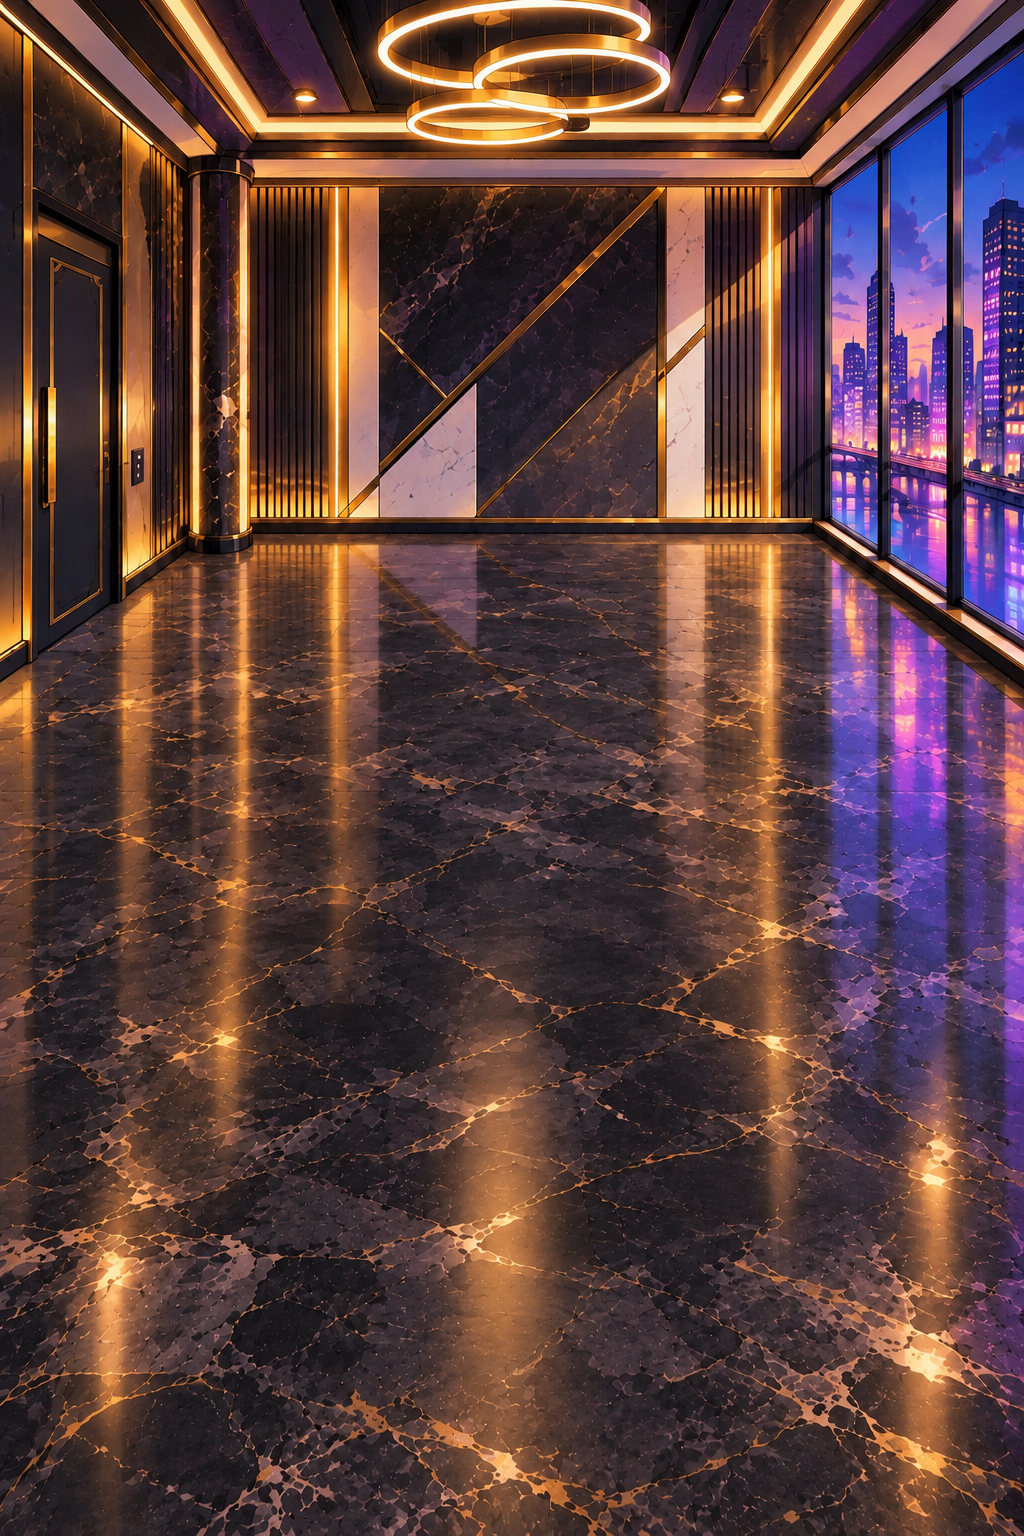
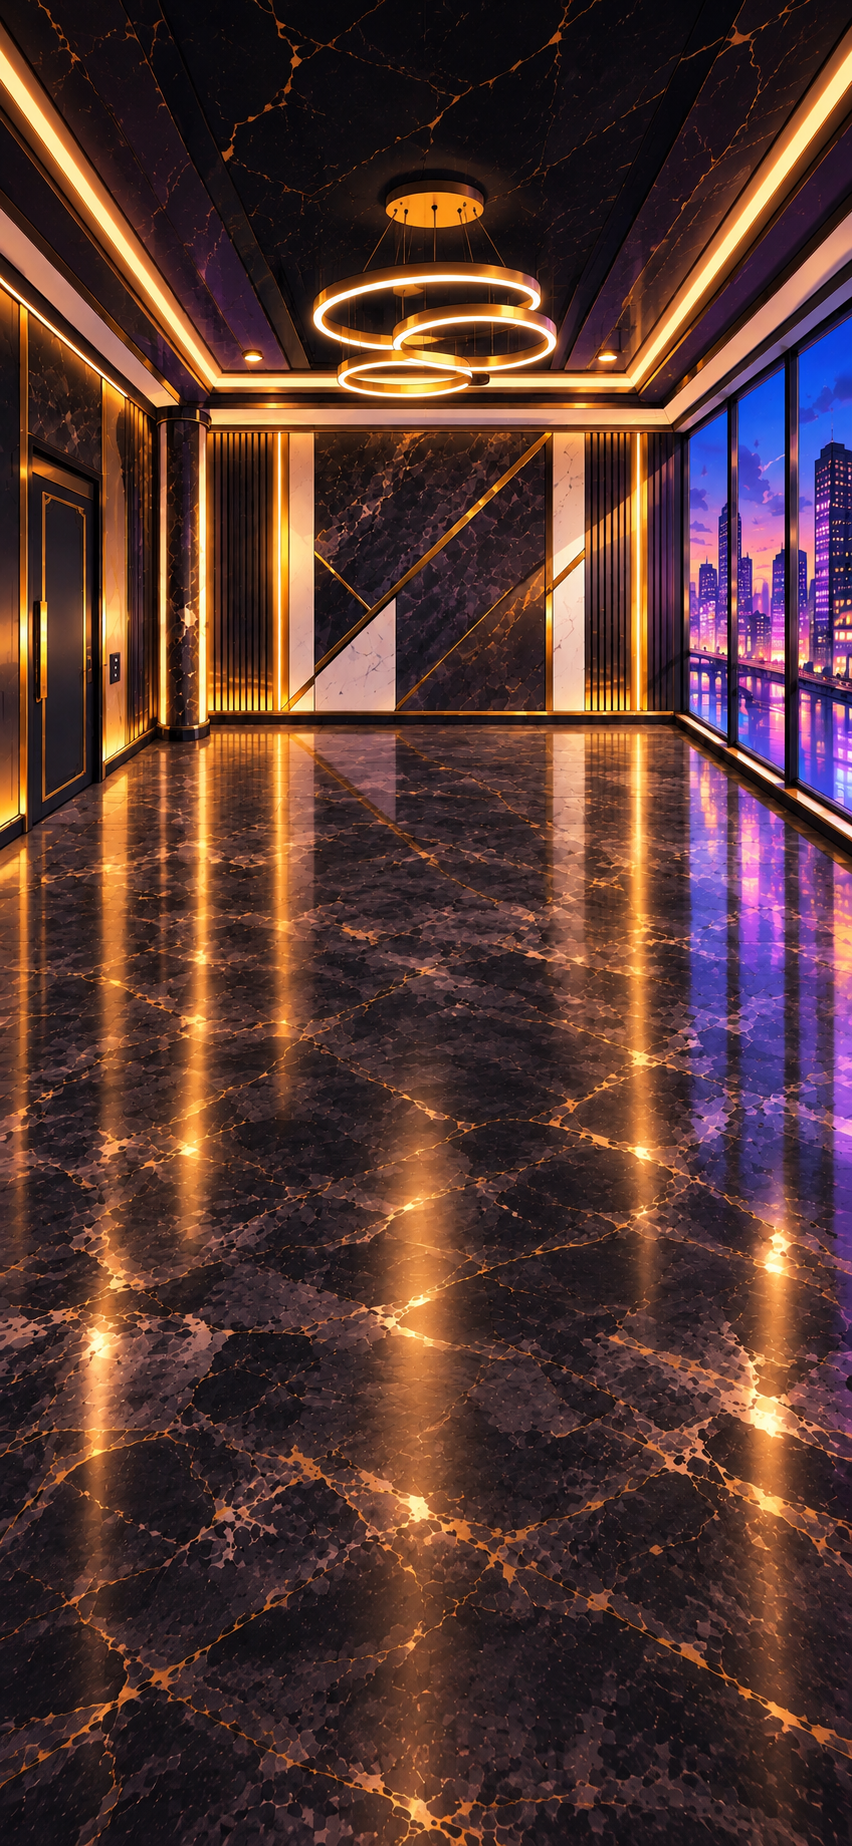
VIP ROOMを全画面用の縦長の絵に
Claude-Session: https://claude.ai/code/session_01MXithgTc5umkveoyZShZHQ

diff --git a/src/core/home.ts b/src/core/home.ts
@@ -92,7 +92,8 @@ export const HOME_LAYOUTS: Record<HomePlace, HomeLayout> = {
   // 2026-11-08 全画面用の 縦長の 絵(852x1846)。床などを この 絵で 測りなおした
   pop: { w: 852, h: 1846, floor: [[215, 660], [640, 660], [800, 800], [830, 1600], [30, 1600], [50, 800]], scale: [0.09, 0.2], furniture: [[175, 628], [678, 628], [852, 770], [852, 1640], [0, 1640], [0, 760]], vanish: [439, 430] },
   // シークレットVIPルーム(企画者の絵 2026-10-22)
-  room4: { w: 1024, h: 1536, floor: [[300, 600], [770, 600], [960, 780], [985, 1290], [40, 1290], [60, 780]], scale: [0.09, 0.19], furniture: [[250, 530], [812, 526], [1024, 690], [1024, 1290], [0, 1290], [0, 682]], vanish: [568, 339] },
+  // 2026-11-08 全画面用の 縦長の 絵(852x1846)。床などを この 絵で 測りなおした
+  room4: { w: 852, h: 1846, floor: [[250, 760], [640, 760], [800, 890], [830, 1600], [30, 1600], [50, 890]], scale: [0.09, 0.2], furniture: [[210, 720], [675, 720], [852, 840], [852, 1640], [0, 1640], [0, 850]], vanish: [494, 579] },
   // 2026-11-08 全画面用の 縦長の 絵(852x1846)。床などを この 絵で 測りなおした
   future: { w: 852, h: 1846, floor: [[240, 715], [640, 715], [800, 850], [830, 1600], [30, 1600], [50, 850]], scale: [0.09, 0.2], furniture: [[200, 680], [680, 680], [852, 800], [852, 1640], [0, 1640], [0, 810]], vanish: [466, 530] },
 };

diff --git a/src/scenes/HomeScene.ts b/src/scenes/HomeScene.ts
@@ -39,7 +39,7 @@ const DEPTH = { monz: 10, effect: 30, ui: 40, popup: 60 };
 
 /** 企画者の部屋の絵(design/home/rooms/ → public/assets/home/rooms/)。_thumb は部屋を選ぶ画面の小さい絵 */
 /** 作り直した 部屋の 絵(2026-11-08 全画面用。名前を 変えて 古い 絵と まざらないように) */
-const ROOM_FILE_NAME: Partial<Record<HomePlace, string>> = { street: 'street_v2', pop: 'pop_v2', future: 'future_v2' };
+const ROOM_FILE_NAME: Partial<Record<HomePlace, string>> = { street: 'street_v2', pop: 'pop_v2', future: 'future_v2', room4: 'room4_v2' };
 export const homeImageFile = (p: HomePlace, thumb = false) => `assets/home/rooms/${ROOM_FILE_NAME[p] ?? p}${thumb ? '_thumb' : ''}.webp`;
 export const homeImageKey = (p: HomePlace, thumb = false) => `home:bg:${p}${thumb ? ':thumb' : ''}`;
 
